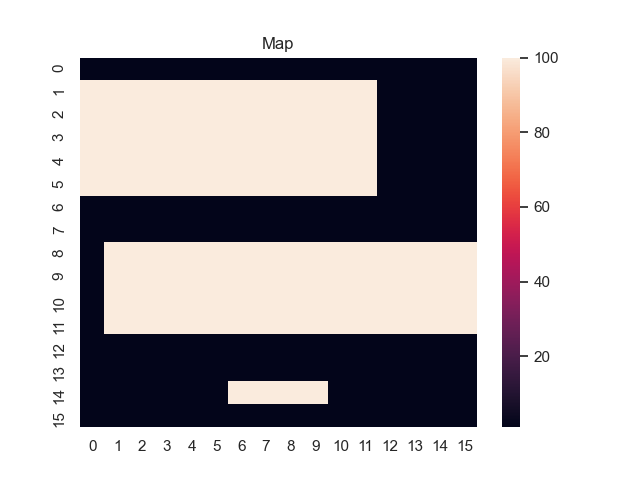
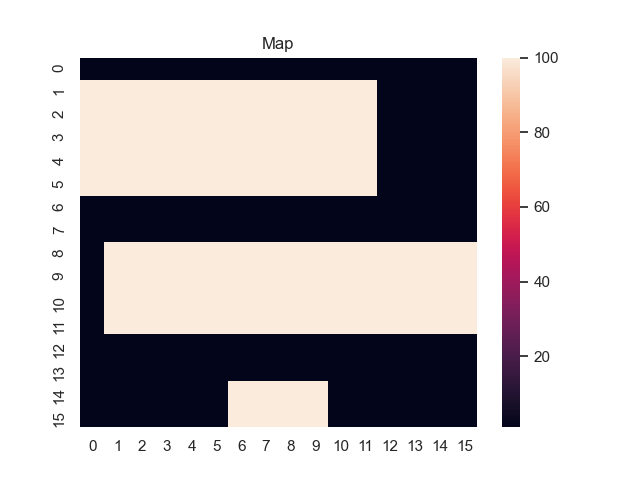
Update

Changed region(s): [[0.3438, 0.8438, 0.5312, 0.9062]]

diff --git a/annotation-cli.py b/annotation-cli.py
@@ -27,7 +27,7 @@ class HammingLoss(torch.nn.Module):
 
 
 def main(argv):
-    neighbourhood_fn = "4-grid"
+    neighbourhood_fn = "8-grid"
     solver = get_solver(neighbourhood_fn)
 
     grid_size = [16, 16]
@@ -40,7 +40,6 @@ def main(argv):
     with torch.inference_mode():
         weights_1 = np.ones(shape=grid_size, dtype=float)
         weights_1[1:12, 1:12] = 2
-
         weights_2 = np.ones(shape=grid_size, dtype=float)
 
         weights_1_batch = torch.tensor(weights_1).unsqueeze(0)
@@ -55,12 +54,10 @@ def main(argv):
         weights_1 = np.ones(shape=[1] + grid_size, dtype=float)
         weights_1[0, 1:6, 0:12] = 100
         weights_1[0, 8:12, 1:] = 100
-        weights_1[0, 14, 6:10] = 100
+        weights_1[0, 14:, 6:10] = 100
 
         weights_1_tensor = torch.tensor(weights_1)
         weights_1_params = nn.Parameter(weights_1_tensor, requires_grad=True)
-
-        # print(weights_1_params[0])
 
         y_2_tensor = torch.tensor(y_2_batch.detach().cpu().numpy())
 
@@ -92,7 +89,19 @@ def main(argv):
     fig = ax.get_figure()
     fig.savefig("figures/map.png")
 
+    plt.clf()
+
+    sns.set_theme()
+    ax = sns.heatmap(y_2_tensor[0].detach().cpu().numpy())
+
+    ax.set_title(f'Gold Path')
+
+    fig = ax.get_figure()
+    fig.savefig("figures/gold.png")
+
+
     def init_fwd():
+        plt.clf()
         weights_1, imle_y_tensor, y_2_tensor, weights_1_params = generate_distribution(0.0)
 
         sns.set_theme()
@@ -117,6 +126,7 @@ def main(argv):
     plt.clf()
 
     def init_grad():
+        plt.clf()
         weights_1, imle_y_tensor, y_2_tensor, weights_1_params = generate_distribution(0.0)
 
         sns.set_theme()

diff --git a/README.md b/README.md
@@ -2,11 +2,15 @@
 
 PyTorch library implementing the I-MLE gradient estimator proposed in the NeurIPS 2021 paper [Implicit MLE: Backpropagating Through Discrete Exponential Family Distributions.](https://arxiv.org/abs/2106.01798)
 
-### Example
+# Example
 
 Implicit MLE (I-MLE) wraps a black-box combinatorial solver, such as Dijkstra's algorithm, and:
 1. Uses [Perturb-and-MAP](https://home.ttic.edu/~gpapan/research/perturb_and_map/) to transform the solver in an exponential family distribution we can sample from, and
 2. Following MLE for the exponential family (e.g. see [Murphy's book, Sect. 9.2.4](http://noiselab.ucsd.edu/ECE228/Murphy_Machine_Learning.pdf)), uses the sufficient statistics of the target distribution and their expectation according to the model to compute the gradient of the log-likelihood.
+
+For example, let's consider this map, and the task is to find the shortest path from the top-left to the bottom-right corner of the map:
+
+<img src="https://raw.githubusercontent.com/uclnlp/torch-imle/main/figures/map.png" width=600>
 
 Here is what happens when we use a Sum-of-Gamma noise distribution to obtain a distribution over paths, using Dijkstra's algorithm:
 
